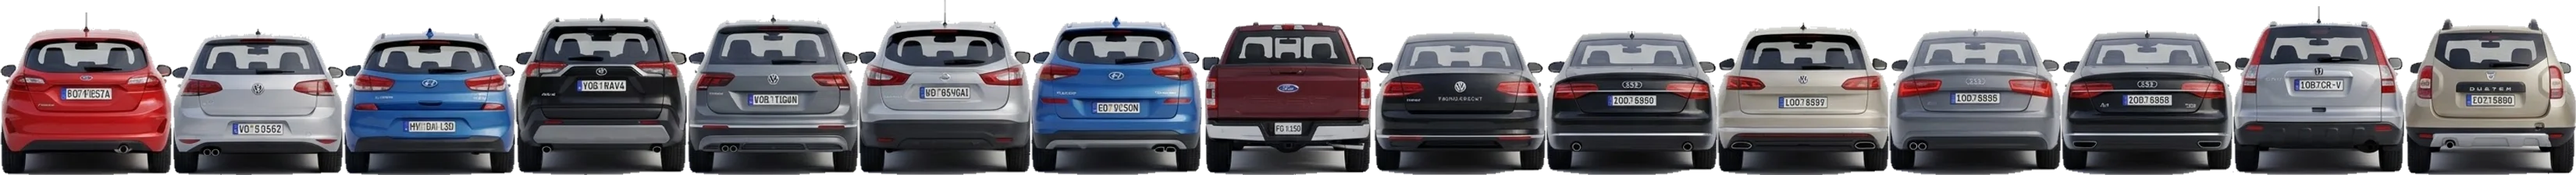
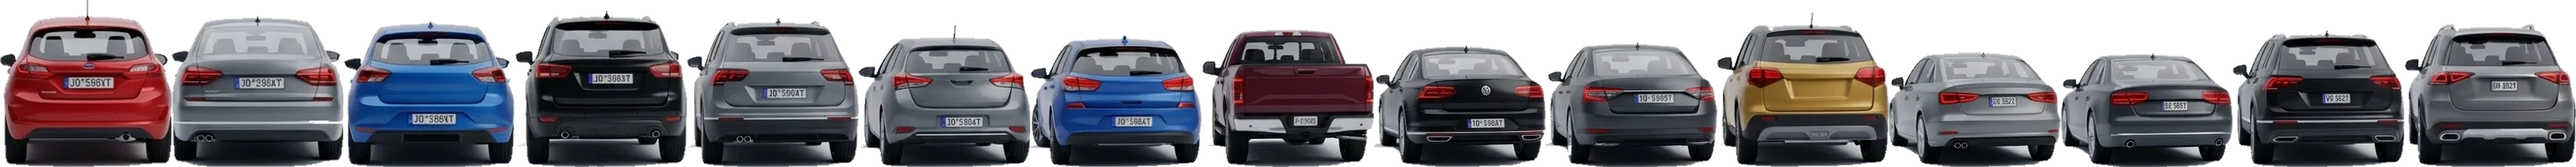
Feat: more small cars and a few long buses in MOTO BOMA
New car pictures (almost no brand logos), busier traffic of small cars and
now and then an 11 m city bus, drawn in 2D and 3D and kept on screen while
being overtaken. Traffic speed is set per lane so no car drives through the
bus ahead of it. Medal times retuned (1:29 / 1:37 / 1:47).

diff --git a/frontend-web/src/game/ngoriRun/renderer.js b/frontend-web/src/game/ngoriRun/renderer.js
@@ -94,21 +94,21 @@ const sheetReady = () => !!sheetImage?.complete && sheetImage.naturalWidth > 0
 // Libreville's red-and-white taxis are still drawn by hand (isTaxi).
 export const TRAFFIC_URL = trafficUrl
 export const TRAFFIC_CARS = [
-  [[0, 16, 220, 209], '#a82529'],
-  [[220, 37, 220, 188], '#999ca3'],
-  [[440, 35, 220, 190], '#365a8b'],
-  [[660, 17, 220, 208], '#232327'],
-  [[880, 19, 220, 206], '#646a72'],
-  [[1100, 0, 220, 225], '#9da1a8'],
-  [[1320, 21, 220, 204], '#466694'],
-  [[1540, 28, 220, 197], '#3e2227'],
-  [[1760, 41, 220, 184], '#1f2126'],
-  [[1980, 40, 220, 185], '#1e2025'],
-  [[2200, 29, 220, 196], '#a5a097'],
-  [[2420, 37, 220, 188], '#626872'],
-  [[2640, 39, 220, 186], '#202226'],
-  [[2860, 8, 220, 217], '#8e939d'],
-  [[3080, 24, 220, 201], '#8f8678'],
+  [[0, 0, 220, 214], '#8d1f21'],
+  [[220, 21, 220, 193], '#60676f'],
+  [[440, 27, 220, 187], '#234e89'],
+  [[660, 14, 220, 200], '#15171c'],
+  [[880, 23, 220, 191], '#5d646c'],
+  [[1100, 33, 220, 181], '#545b64'],
+  [[1320, 45, 220, 169], '#2a4b85'],
+  [[1540, 38, 220, 176], '#45373d'],
+  [[1760, 58, 220, 156], '#2f3338'],
+  [[1980, 54, 220, 160], '#343a40'],
+  [[2200, 16, 220, 198], '#856735'],
+  [[2420, 67, 220, 147], '#73777d'],
+  [[2640, 68, 220, 146], '#414750'],
+  [[2860, 39, 220, 175], '#2d2f34'],
+  [[3080, 31, 220, 183], '#55585e'],
 ].map(([rect, color]) => ({ rect, color }))
 export const TRAFFIC_CAR_WIDTH_CM = 185
 export const trafficCarFor = (o) => TRAFFIC_CARS[o.id % TRAFFIC_CARS.length]
@@ -1136,6 +1136,35 @@ export function createRenderer(canvas, { runner = 'man' } = {}) {
         ctx.textBaseline = 'middle'
         ctx.fillText('TAXI', (sign.left + sign.right) / 2, (sign.top + sign.bottom) / 2)
       }
+    } else if (o.type === 'bus') {
+      // MOTO BOMA's city bus, seen from behind: green and white, long roof.
+      const len = 1100
+      // Being overtaken: its back is already behind the camera, only the roof shows.
+      const near = -CAM_BACK + 60
+      if (zr < near) {
+        top(xc, 172, 300, near, zr + len, '#0b5d55')
+        ctx.globalAlpha = 1
+        return
+      }
+      top(xc, 172, 300, zr, zr + len, '#0b5d55')
+      const body = face(xc, 172, 0, 300, zr, '#0f766e')
+      const bw = body.right - body.left
+      const bh = body.bottom - body.top
+      ctx.fillStyle = '#f8fafc'
+      ctx.fillRect(body.left, body.top + bh * 0.52, bw, bh * 0.1)
+      ctx.fillStyle = 'rgba(20,24,36,0.9)'
+      ctx.fillRect(body.left + bw * 0.08, body.top + bh * 0.1, bw * 0.84, bh * 0.34)
+      ctx.fillStyle = '#ef4444'
+      ctx.fillRect(body.left + bw * 0.04, body.top + bh * 0.68, bw * 0.12, bh * 0.08)
+      ctx.fillRect(body.right - bw * 0.16, body.top + bh * 0.68, bw * 0.12, bh * 0.08)
+      ctx.fillStyle = '#facc15'
+      ctx.font = `800 ${Math.max(5, 30 * body.s)}px system-ui, sans-serif`
+      ctx.textAlign = 'center'
+      ctx.textBaseline = 'middle'
+      ctx.fillText('BUS', (body.left + body.right) / 2, body.top + bh * 0.06)
+      ctx.fillStyle = '#111'
+      ctx.fillRect(body.left + bw * 0.06, body.bottom - bh * 0.06, bw * 0.2, bh * 0.06)
+      ctx.fillRect(body.right - bw * 0.26, body.bottom - bh * 0.06, bw * 0.2, bh * 0.06)
     } else if (o.type === 'works') {
       top(xc, 160, 140, zr, zr + def.len, '#c2410c')
       const panel = face(xc, 160, 0, 140, zr, '#f97316')
@@ -1431,7 +1460,10 @@ export function createRenderer(canvas, { runner = 'man' } = {}) {
     drawScenery(view.dist, view.time)
 
     const items = []
-    for (const o of state.obstacles) items.push({ zr: o.z - view.dist, draw: (zr) => drawObstacle(o, zr) })
+    // A long bus stays drawn until its front has passed, not just its back.
+    for (const o of state.obstacles) {
+      items.push({ zr: o.z - view.dist, far: o.type === 'bus' ? o.z - view.dist + 1100 : null, draw: (zr) => drawObstacle(o, zr) })
+    }
     for (const c of state.coinsOnRoad) if (!c.taken) items.push({ zr: c.z - view.dist, draw: (zr) => drawCoin(c, zr, view.time) })
     for (const p of state.powerups) if (!p.taken) items.push({ zr: p.z - view.dist, draw: (zr) => drawPowerup(p, zr, view.time) })
     items.push({ zr: 30, draw: () => drawRunner(state, view) })
@@ -1441,7 +1473,7 @@ export function createRenderer(canvas, { runner = 'man' } = {}) {
       if (from > 0) items.push({ zr: from * 100 - view.dist, draw: (zr) => drawArch(zr, name) })
     }
     items
-      .filter((it) => it.zr > -CAM_BACK + 40 && it.zr < VIEW_DEPTH)
+      .filter((it) => (it.far ?? it.zr) > -CAM_BACK + 40 && it.zr < VIEW_DEPTH)
       .sort((a, b) => b.zr - a.zr)
       .forEach((it) => it.draw(it.zr))
 

diff --git a/frontend-web/src/game/ngoriRun/renderer3d.js b/frontend-web/src/game/ngoriRun/renderer3d.js
@@ -1336,6 +1336,24 @@ export function createRenderer3d(container, { runner = 'man' } = {}) {
       for (const z of [-0.8, -len + 0.8]) for (const x of [-0.7, 0.7]) g.add(cube(0.22, 0.42, 0.62, tyre, x, 0, z))
       return g
     }
+    if (o.type === 'bus') {
+      // MOTO BOMA's city bus: 11 m long, green and white.
+      const len = 11
+      const g = group(
+        cube(1.75, 2.75, len, lambert('#0f766e'), 0, 0.3, -len / 2),
+        cube(1.77, 0.28, len + 0.02, lambert('#f8fafc'), 0, 1.45, -len / 2),
+        cube(1.5, 0.95, 0.04, lambert('#141824'), 0, 1.85, 0.01),
+        new THREE.Mesh(planeGeo, textMat('bus|label', 'BUS', '#0f766e', '#facc15', 192, 64)),
+      )
+      const label = g.children[3]
+      label.scale.set(0.7, 0.24, 1)
+      label.position.set(0, 2.9, 0.03)
+      const light = basic('#ef4444')
+      g.add(cube(0.24, 0.16, 0.04, light, -0.68, 0.95, 0.01), cube(0.24, 0.16, 0.04, light, 0.68, 0.95, 0.01))
+      const tyre = lambert('#111111')
+      for (const z of [-1.4, -len + 2]) for (const x of [-0.8, 0.8]) g.add(cube(0.24, 0.6, 0.9, tyre, x, 0, z))
+      return g
+    }
     if (o.type === 'works') {
       const orange = lambert('#c2410c')
       const stripes = stripesMat('works', '#f97316', '#fff7ed', 8)
@@ -1577,7 +1595,7 @@ export function createRenderer3d(container, { runner = 'man' } = {}) {
     const { dist, time } = view
     for (const o of state.obstacles) {
       const zr = o.z - dist
-      if (!inView(zr)) continue
+      if (!inView(zr, zr + (o.type === 'bus' ? 1100 : 420))) continue
       const obj = place(`o${o.id}`, () => buildObstacle(o), zr, laneX(o.lane))
       obj.visible = !o.hit
     }
